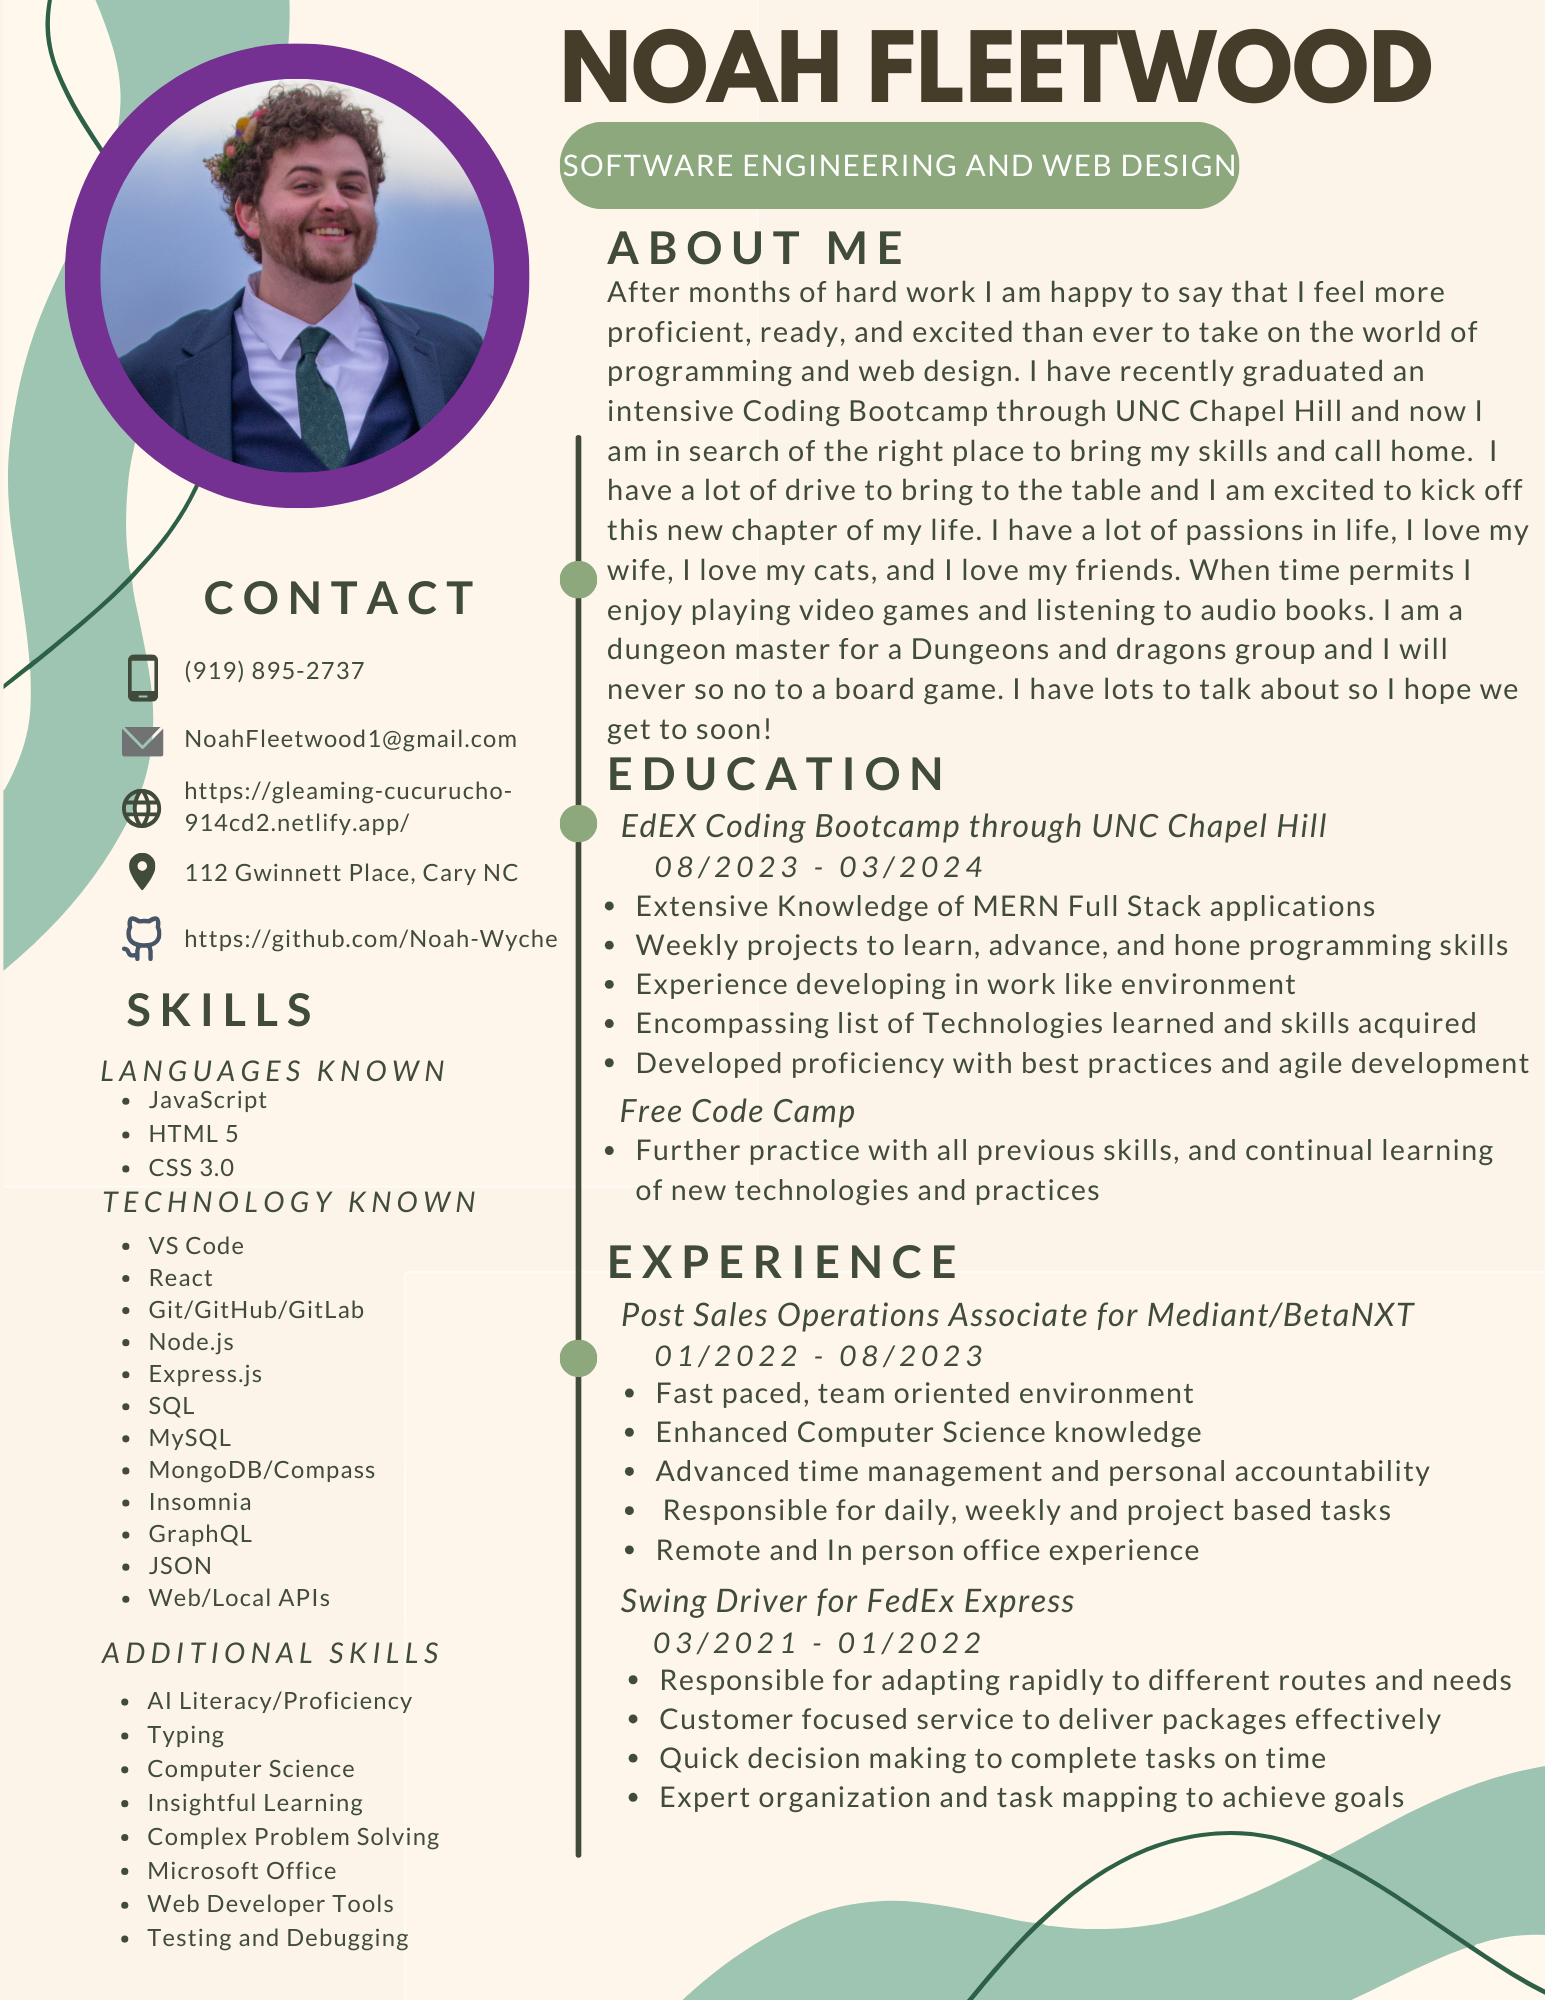
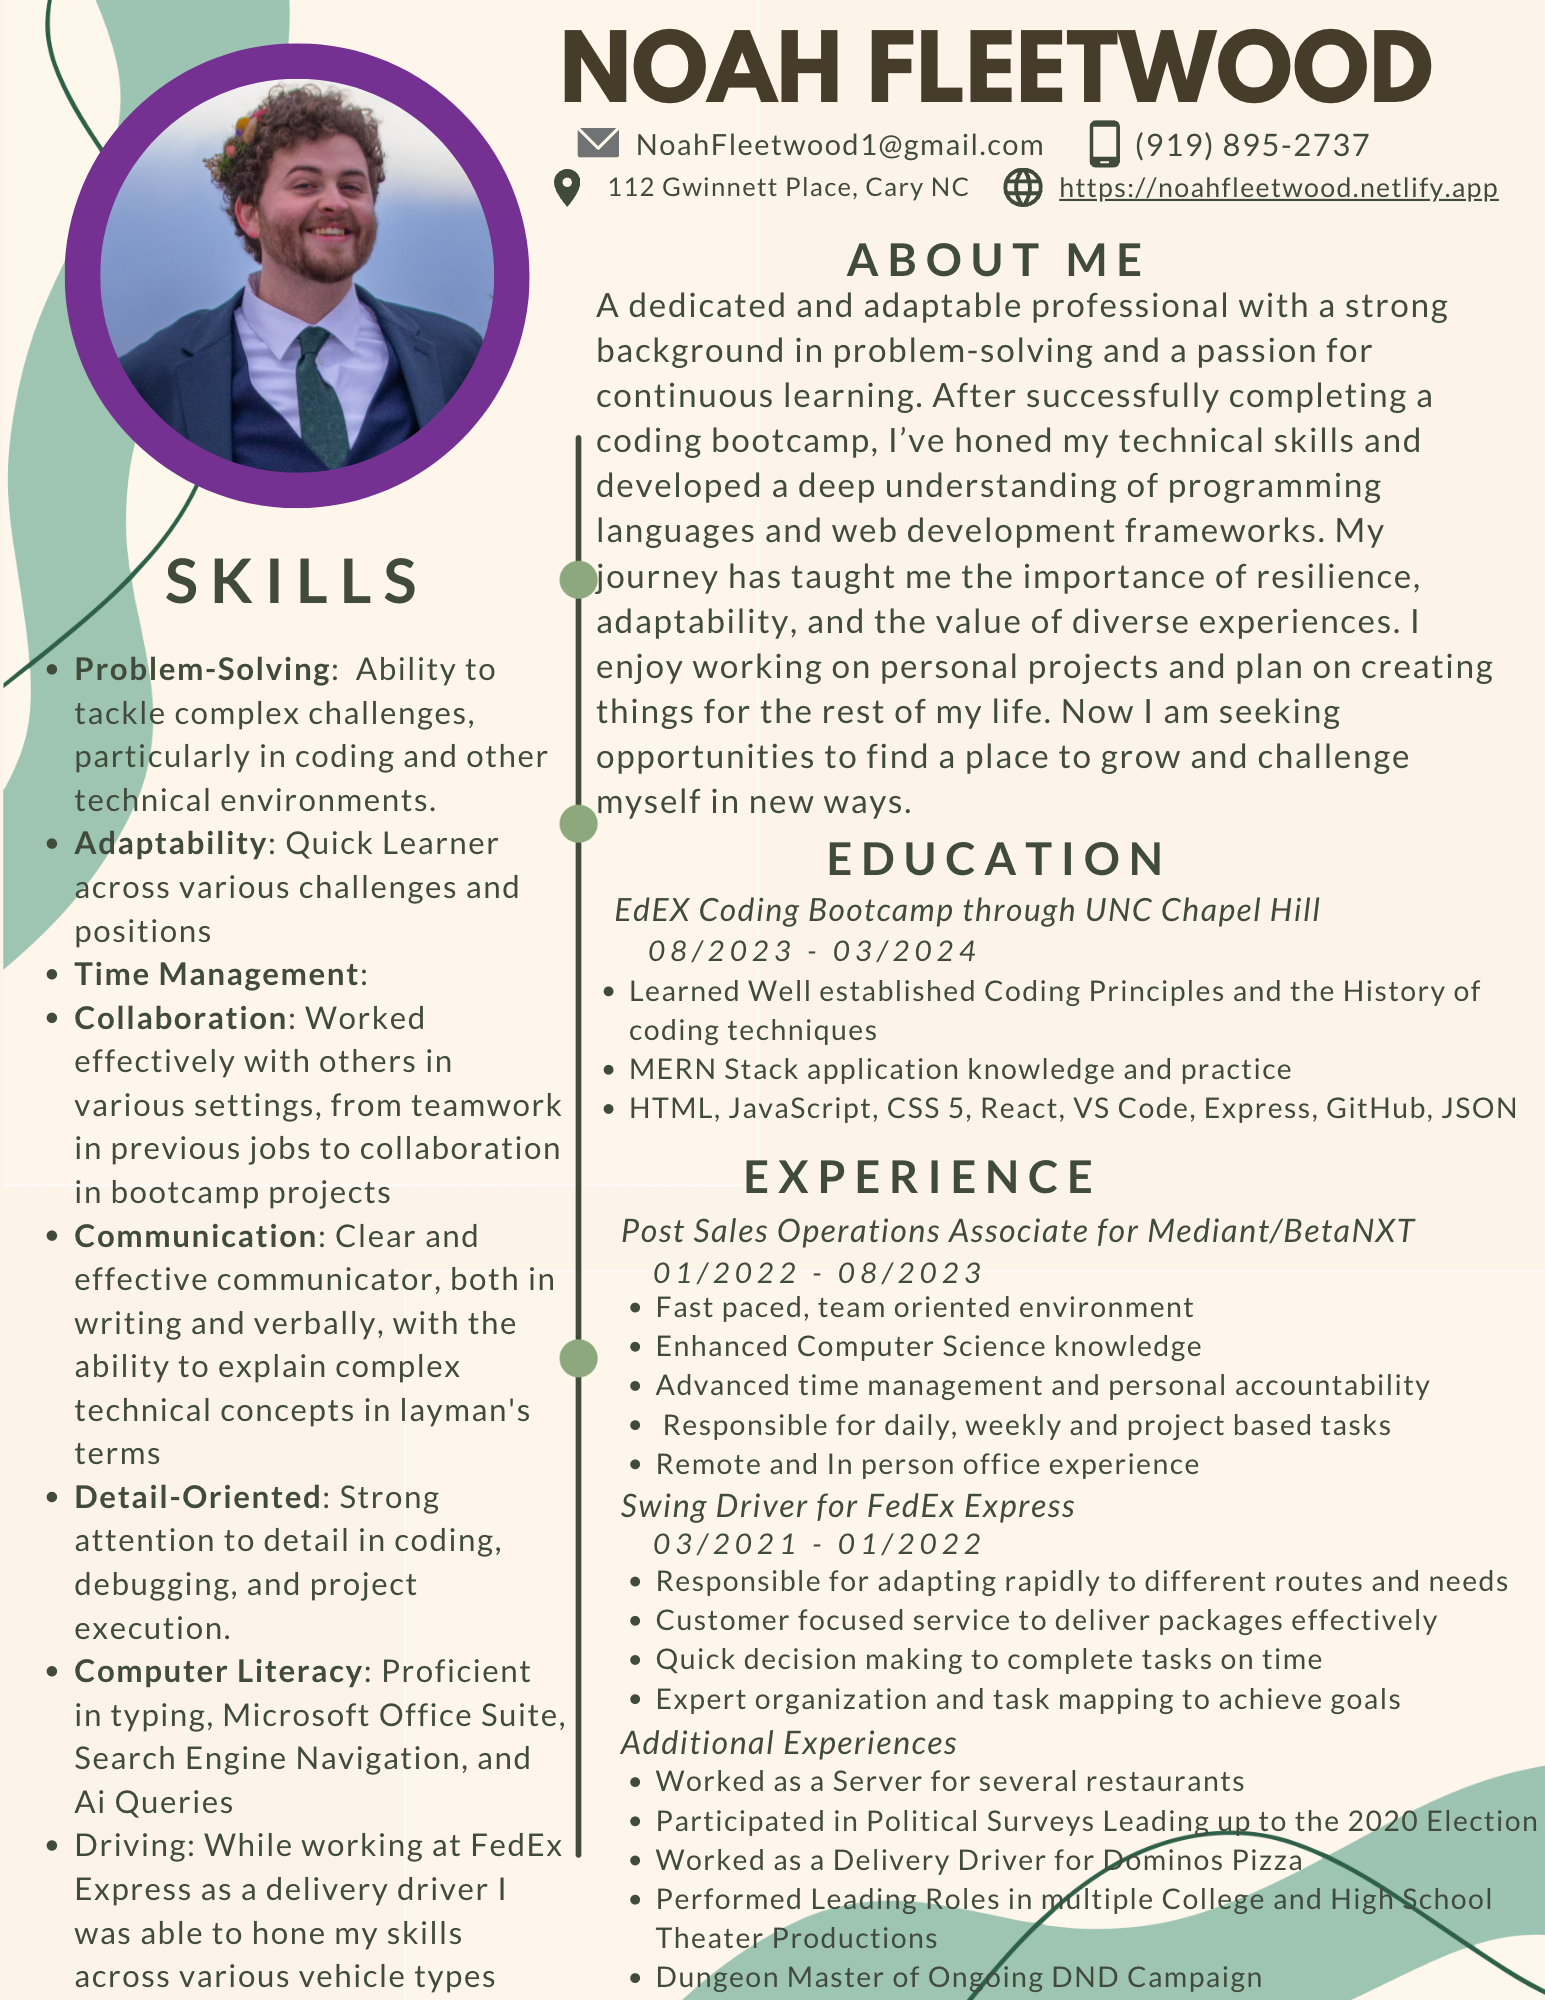
Adding 'The Common Room' to the portfolio page, tiktok to the contact page, changing resume for new one, and adjusting the layout of the resume page so that the resume and the certificate stack vertically

diff --git a/src/pages/Portfolio.js b/src/pages/Portfolio.js
@@ -6,26 +6,34 @@ import savorOfTheDayImage from '../assets/Images/savorOfTheDay.png';
 import weatherDashboardImage from '../assets/Images/weatherDashboard.png';
 import infoSymbolImage from '../assets/Images/infoSymbol2.png';
 import closeSymbolImage from '../assets/Images/closeSymbol.png';
+import CommonRoomImage from '../assets/Images/CommonRoom.png';
 
 const Portfolio = () => {
   /* Project Setup */
   const projects = [
     {
       id: 1,
+      title: 'The Common Room',
+      image: CommonRoomImage,
+      link: 'https://thecommonroomghc.com/',
+      description: 'The Common Room is my current project and the thing I am most happy to show off. It is my own storefront I am running along with my wife. We sell sticker, handmade clothing, trading cards, and more! The site is built with Shopify and is fully functional.'
+    },
+    {
+      id: 2,
       title: 'LegoLab',
       image: legoLabImage,
       link: 'https://legolab-nfzw.onrender.com/',
       description: 'LegoLab is a full stack E-commerce site I worked on with a team of developers during a bootcamp I attended. Users can browse Lego sets that have been added to our database, add items to their cart and even create an account for consistent shopping. The site is built with React, Node.js, Express, and MongoDB. While not fully functional, our databse is fully connected and users are able to browse to their hearts content.'
     },
     {
-      id: 2,
+      id: 3,
       title: 'Savor of the Day',
       image: savorOfTheDayImage,
       link: 'https://noah-wyche.github.io/Savor-of-the-Day/index.html',
       description: 'Ever wish you could just type in a couple random ingredients you have in your kitchen and get a recipe? Well, now you can! This app helps with finding new recipes, keeping track of old ones, and even has space to make a grocery list.'
     },
     {
-      id: 3,
+      id: 4,
       title: 'Weather Dashboard',
       image: weatherDashboardImage,
       link: 'https://noah-wyche.github.io/Weather-Dashboard/',

diff --git a/src/pages/Contact.js b/src/pages/Contact.js
@@ -55,6 +55,7 @@ export const Contact = () => {
         <a href="https://www.linkedin.com/in/noah-fleetwood-3b9b6b1b3/"><li>LinkedIn</li></a>
         <a href="https://github.com/Noah-Wyche"><li>GitHub</li></a>
         <a href="https://www.instagram.com/noahfleetwood822/"><li>Instagram</li></a>
+        <a href="https://www.tiktok.com/@noahfleetwood822"><li>TikTok</li></a>
         </ul> 
       </div>
       <img className="ContactImage" src={Contactimage} alt="Contact" />

diff --git a/src/pages/Resume.js b/src/pages/Resume.js
@@ -7,7 +7,7 @@ const Resume = () => {
   return (
     <div className="ResumeContainer">
       <h1 className="ResumeTitle">Resume</h1>
-      <p className="ResumeContent"></p>
+      <p className="ResumeContent">My Proffesional Resume and my Coding Bootcamp Certication</p>
       <img src={Resumeimage} alt="Resume" className="resume-image" />
       <img src={Certificateimage} alt="Coding Certificate" className="certificate-image" />
     </div>

diff --git a/src/pages/Resume.css b/src/pages/Resume.css
@@ -2,8 +2,10 @@
     color: #753192; /* Match the purple color of the resume */
   }
   
-  .ResumeContent {
+  .ResumeContainer {
     color: #414b3b; /* Medium gray text color */
+    display: flex; /* Use flexbox to align elements */
+    flex-direction: column; /* Stack elements vertically */
   }
 
   .resume-image {
